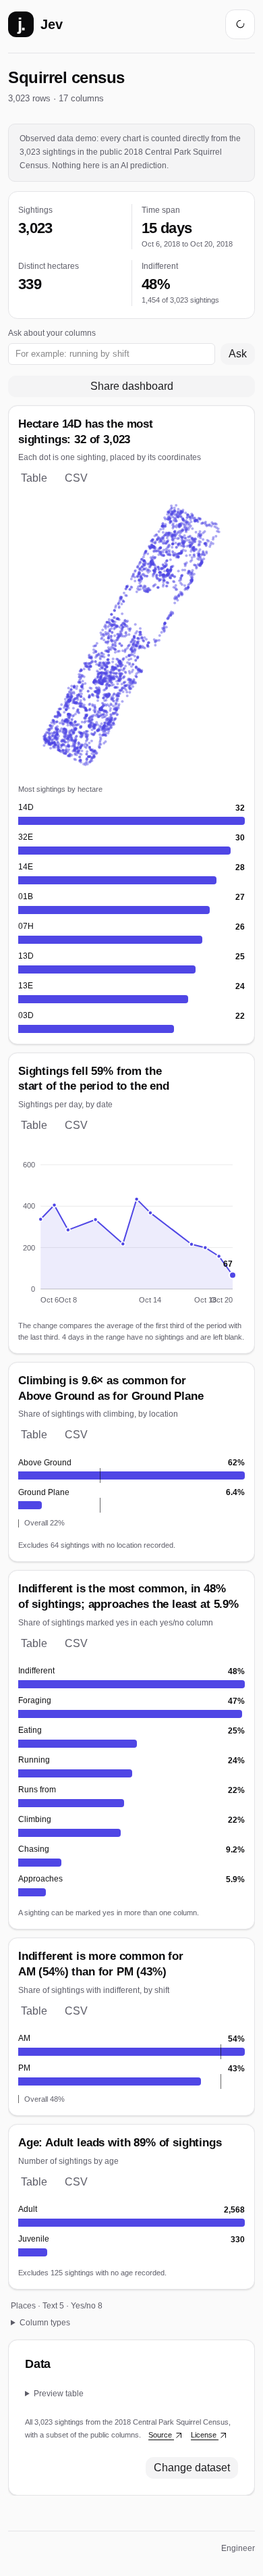
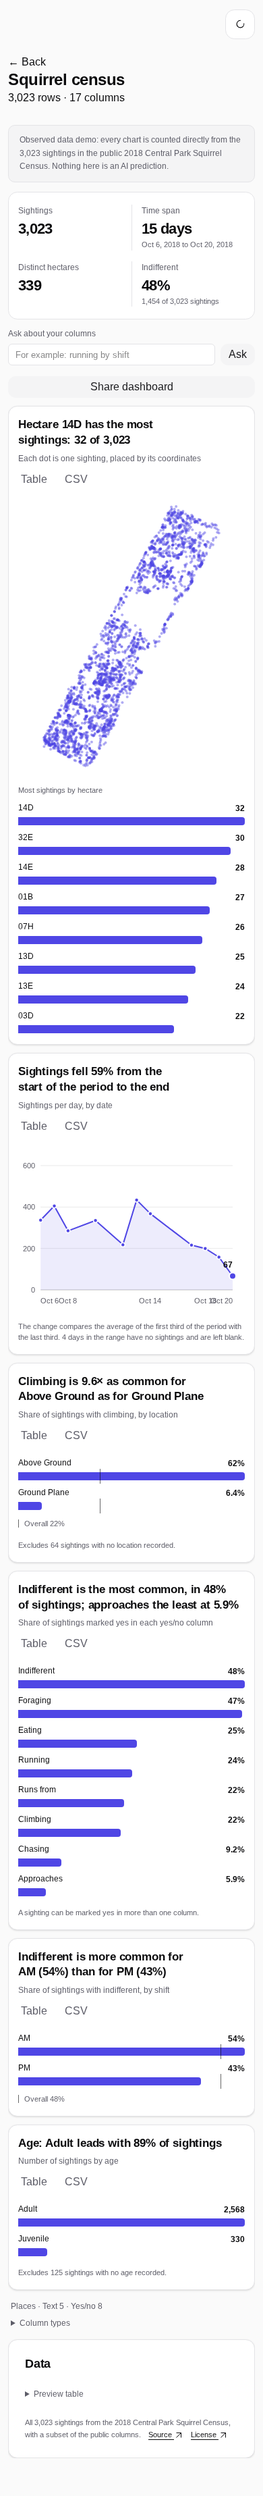
Give every page the landing's chrome: no brand link, no footer
The header now holds only the theme toggle on every page and the product UI
has no footer. Non-landing pages get a plain Back link above the title (a demo
replay returns to its dashboard), which replaces the brand link and the
redundant Change dataset button. Engineer mode has no entry link; it is
entered with ?mode=engineer and shows a Product link only while active.

Changed region(s): [[0.0308, 0.0, 0.9231, 0.9646], [0.5846, 0.9334, 0.8615, 0.9646]]

diff --git a/src/app.test.tsx b/src/app.test.tsx
@@ -141,8 +141,12 @@ const startSampleRun = async (api: AnalysisApiClient) => {
   await enterSample(api)
 }
 
+/** Engineer mode has no link in the product UI; it is entered with the URL parameter. */
 const openEngineer = () => {
-  fireEvent.click(screen.getByRole('link', { name: /^engineer$/i }))
+  act(() => {
+    window.history.pushState({}, '', `${window.location.pathname}?mode=engineer`)
+    window.dispatchEvent(new PopStateEvent('popstate'))
+  })
 }
 
 const startEngineerRun = async (api: AnalysisApiClient) => {
@@ -329,7 +333,9 @@ describe('Jev insight product flow', () => {
     expect(screen.queryByRole('textbox', { name: /jev query json/i })).not.toBeInTheDocument()
     expect(screen.queryByRole('button', { name: /draft task/i })).not.toBeInTheDocument()
     expect(screen.queryByRole('button', { name: /run jev/i })).not.toBeInTheDocument()
-    fireEvent.click(screen.getByRole('link', { name: /^engineer$/i }))
+    expect(screen.queryByRole('link', { name: /^engineer$/i })).not.toBeInTheDocument()
+    expect(screen.queryByRole('contentinfo')).not.toBeInTheDocument()
+    openEngineer()
     expect(document.querySelector('[data-mode="engineer"]')).toBeTruthy()
     expect(window.location.search).toMatch(/mode=engineer/)
     expect(screen.getByText(/edit jev json/i)).toBeInTheDocument()
@@ -738,7 +744,7 @@ describe('Jev insight product flow', () => {
     fireEvent.change(screen.getByLabelText(/upload csv/i), { target: { files: [file] } })
     expect(await screen.findByRole('heading', { name: 'tickets.csv' })).toBeInTheDocument()
     expect(api.createFromCsv).toHaveBeenCalled()
-    fireEvent.click(screen.getByRole('button', { name: /change dataset/i }))
+    fireEvent.click(screen.getByRole('link', { name: /back/i }))
     fireEvent.change(screen.getByLabelText(/public https csv url/i), { target: { value: 'https://example.com/data.csv' } })
     fireEvent.click(screen.getByRole('button', { name: /use public csv url/i }))
     expect(await screen.findByRole('heading', { name: 'remote.csv' })).toBeInTheDocument()
@@ -914,7 +920,20 @@ describe('Jev insight product flow', () => {
     expect(document.querySelector('.page-meta')).toHaveTextContent('71 rows · 16 columns')
     expect(screen.queryByText(/built-in example|in perspective|clearer picture|tells a story/i)).not.toBeInTheDocument()
     expect(document.querySelector('.eyebrow')).toBeNull()
+    // Same chrome as the landing: no brand link and no footer. The way out is the Back link.
+    expect(screen.queryByRole('link', { name: /jev/i })).not.toBeInTheDocument()
+    expect(screen.queryByRole('contentinfo')).not.toBeInTheDocument()
+    expect(screen.getByRole('link', { name: /back/i })).toHaveAttribute('href', '/')
     expect(screen.getByRole('button', { name: /replay timeline/i })).toBeInTheDocument()
+  })
+
+  it('sends a demo replay back to its dashboard', async () => {
+    window.history.pushState({}, '', '/share/demo-football')
+    render(<App api={makeApi()} />)
+    expect(await screen.findByRole('heading', { level: 1, name: 'Saved analysis' })).toBeInTheDocument()
+    expect(screen.queryByRole('contentinfo')).not.toBeInTheDocument()
+    fireEvent.click(screen.getByRole('link', { name: /back/i }))
+    expect(window.location.pathname).toBe('/demo/football')
   })
 
   const salesCsv = 'region,units\nWest,10\nEast,20\nWest,30\nEast,5\nNorth,7\nNorth,9\nWest,12\nEast,3\n'
@@ -1095,13 +1114,13 @@ describe('Jev insight product flow', () => {
     expect(screen.queryByText(/couldn't run/i)).not.toBeInTheDocument()
   })
 
-  it('clears the public CSV URL after Change dataset', async () => {
+  it('clears the public CSV URL after going back from a dataset', async () => {
     const api = makeApi()
     render(<App api={api} />)
     fireEvent.change(screen.getByLabelText(/public https csv url/i), { target: { value: 'https://example.com/data.csv' } })
     fireEvent.click(screen.getByRole('button', { name: /use public csv url/i }))
     expect(await screen.findByRole('heading', { name: 'remote.csv' })).toBeInTheDocument()
-    fireEvent.click(screen.getByRole('button', { name: /change dataset/i }))
+    fireEvent.click(screen.getByRole('link', { name: /back/i }))
     expect(screen.getByLabelText(/public https csv url/i)).toHaveValue('')
   })
 

diff --git a/src/App.tsx b/src/App.tsx
@@ -782,6 +782,17 @@ const App = ({ api = defaultAnalysisApi }: { api?: AnalysisApiClient }) => {
   const stage = isShareView ? 'share' : snapshot && engineerMode ? 'run' : activeDataset ? 'dataset' : 'intake'
   const landing = route.kind === 'land'
   const demoShare = shareAnalysisId !== undefined && isDemoAnalysisId(shareAnalysisId)
+  // A demo replay returns to its dashboard; everything else returns to the start.
+  const backHref = demoShare ? `/demo/${shareAnalysisId!.slice(5)}` : landHref(window.location.search)
+  const goBack = () => {
+    if (!demoShare) {
+      setDataset(undefined)
+      resetRunState()
+      setIntakeError(undefined)
+      resetIntakeForm()
+    }
+    navigate(backHref)
+  }
   const pageTitle = isShareView
     ? 'Saved analysis'
     : activeDataset?.displayName ?? demoDatasets.find((item) => item.id === demoId)?.name ?? 'Dataset'
@@ -789,7 +800,6 @@ const App = ({ api = defaultAnalysisApi }: { api?: AnalysisApiClient }) => {
   return (
     <main className="analysis-shell" data-stage={stage} data-mode={engineerMode ? 'engineer' : 'product'}>
       <header className="site-header">
-        {landing ? null : <a className="brand" href="/" aria-label="Jev home" onClick={(event) => { event.preventDefault(); navigate('/'); setDataset(undefined); resetRunState() }}><span className="brand-mark" aria-hidden="true">j.</span><span>Jev</span></a>}
         <div className="site-header-actions">
           <ThemeToggle />
         </div>
@@ -797,13 +807,13 @@ const App = ({ api = defaultAnalysisApi }: { api?: AnalysisApiClient }) => {
       {landing ? <h1 id="page-title" className="sr-only">{PRODUCT_TITLE}</h1> : (
         <section className="page-head" aria-labelledby="page-title">
           <div className="page-head-text">
+            <a className="page-back" href={backHref} onClick={(event) => { event.preventDefault(); goBack() }}><span aria-hidden="true">←</span> Back</a>
             <h1 id="page-title">{pageTitle}</h1>
             {activeDataset ? <p className="page-meta">{formatCount(activeDataset.acceptedRowCount)} rows <span aria-hidden="true">·</span> {activeDataset.columns.length} columns</p> : null}
           </div>
           {demo && route.kind === 'demo' && route.demoId === 'football' ? (
             <Button variant="secondary" onClick={() => navigate('/share/demo-football')}>Replay timeline <ArrowUpRight /></Button>
           ) : null}
-          {demoShare ? <Button variant="secondary" onClick={() => navigate(`/demo/${shareAnalysisId!.slice(5)}`)}>Back to dashboard</Button> : null}
         </section>
       )}
       <div className="workspace">
@@ -854,13 +864,7 @@ const App = ({ api = defaultAnalysisApi }: { api?: AnalysisApiClient }) => {
                 </section>
               ) : null}
               <SchemaStrip dataset={activeDataset} />
-              <DatasetPreviewCard dataset={activeDataset} onChange={() => {
-                setDataset(undefined)
-                resetRunState()
-                setIntakeError(undefined)
-                resetIntakeForm()
-                navigate(landHref(window.location.search))
-              }} />
+              <DatasetPreviewCard dataset={activeDataset} />
             </div>
           ) : null}
         </StageFold>
@@ -968,7 +972,7 @@ const App = ({ api = defaultAnalysisApi }: { api?: AnalysisApiClient }) => {
           ) : null}
         </StageFold>
       </div>
-      {!isShareView && !landing ? (
+      {engineerMode && !isShareView && !landing ? (
         <footer className="site-footer">
           <a
             className="engineer-link"

diff --git a/src/components/DatasetPreview.tsx b/src/components/DatasetPreview.tsx
@@ -1,8 +1,7 @@
 import { useEffect, useMemo, useRef, useState } from 'react'
 import type { DatasetPreview } from '../shared/dataset'
 import { PREVIEW_VIEWPORT_SIZE, previewWindow } from '../dataset/previewWindow'
-import { Button } from './ui/button'
-import { Card, CardContent, CardFooter, CardHeader } from './ui/card'
+import { Card, CardContent, CardHeader } from './ui/card'
 import { ArrowUpRight } from './ui/arrow'
 
 const previewValue = (value: unknown): string => {
@@ -16,7 +15,7 @@ export const isNarrowPreview = (): boolean => {
   return window.innerWidth <= 390
 }
 
-export const DatasetPreviewCard = ({ dataset, onChange }: { dataset: DatasetPreview; onChange?: () => void }) => {
+export const DatasetPreviewCard = ({ dataset }: { dataset: DatasetPreview }) => {
   const columns = dataset.columns
   const rows = dataset.previewRows
   const scrollRef = useRef<HTMLDivElement>(null)
@@ -117,11 +116,6 @@ export const DatasetPreviewCard = ({ dataset, onChange }: { dataset: DatasetPrev
       </CardContent>
       {dataset.validationWarnings.length > 0 ? <CardContent><ul className="dataset-warnings" aria-label="Dataset validation notes">{dataset.validationWarnings.map((warning, index) => <li key={index}>{warning}</li>)}</ul></CardContent> : null}
       {dataset.attribution ? <CardContent><p className="dataset-attribution">{dataset.attribution.disclosure} <a href={dataset.attribution.sourceUrl} target="_blank" rel="noreferrer">Source <ArrowUpRight size={12} /></a> <a href={dataset.attribution.licenseUrl} target="_blank" rel="noreferrer">License <ArrowUpRight size={12} /></a></p></CardContent> : null}
-      {onChange && (
-        <CardFooter className="preview-actions">
-          <Button variant="secondary" size="sm" type="button" onClick={onChange}>Change dataset</Button>
-        </CardFooter>
-      )}
     </Card>
   )
 }

diff --git a/src/styles.css b/src/styles.css
@@ -133,24 +133,9 @@ button, a { cursor: pointer; }
 .site-header {
   display: flex;
   align-items: center;
-  justify-content: space-between;
+  justify-content: flex-end;
   gap: 16px;
-  padding-bottom: 16px;
-  border-bottom: 1px solid var(--border);
 }
-
-.brand {
-  display: inline-flex;
-  align-items: center;
-  gap: 8px;
-  color: var(--foreground);
-  text-decoration: none;
-  font-size: 20px;
-  font-weight: 600;
-  letter-spacing: -0.01em;
-}
-
-.brand:hover { color: var(--foreground); }
 
 .site-header-actions {
   display: flex;
@@ -584,19 +569,7 @@ h3 {
 }
 
 /* The public studio: a clear first step, with a preview of the result. */
-.brand-mark {
-  display: grid; place-items: center; width: 38px; height: 38px;
-  border-radius: 12px; background: var(--foreground); color: var(--background);
-  font-size: 26px; font-weight: 700; line-height: 1; letter-spacing: -0.08em;
-}
-.brand { gap: 10px; }
-.site-header { padding-bottom: 20px; }
-.page-head { display: flex; align-items: flex-end; justify-content: space-between; flex-wrap: wrap; gap: 12px 20px; padding: 32px 0 20px; }
-.page-head-text { min-width: 0; }
-.page-head h1 { overflow-wrap: anywhere; text-wrap: balance; }
-.page-meta { margin: 6px 0 0; color: var(--muted-foreground); font-size: 13px; font-variant-numeric: tabular-nums; }
 .site-header-actions { margin-left: auto; }
-.analysis-shell[data-stage='intake'] .site-header { border-bottom: 0; padding-bottom: 0; }
 .analysis-shell[data-stage='intake'] .workspace { padding-top: clamp(8px, 5vh, 56px); }
 .analysis-shell[data-stage='intake'] .stage-fold-body { display: grid; grid-template-columns: minmax(0, 1.05fr) minmax(0, 1fr); gap: 40px; align-items: start; }
 .column-head { display: grid; align-content: start; gap: 6px; margin-bottom: 16px; }

diff --git a/README.md b/README.md
@@ -15,7 +15,7 @@ npm run dev
 
 Open the Vite URL and pick one of the examples. Direct links are `/demo/squirrels` and `/demo/football`. Saved demo replay is also available at `/share/demo-football`. Every chart can switch to a data table and export its own CSV; blocked clipboard access reveals a selectable link. The **Ask about your columns** box reorders the dashboard to lead with the charts that answer a question, without any request.
 
-Dropping a CSV always produces a dashboard. Without the live backend the file is charted in the browser at `/local`, never uploaded, and cleared on reload. With the live backend, uploads and public HTTPS URL intake are stored and shareable. A stored dataset shows its observed dashboard first; **Analyze dataset** explicitly starts Jev analysis. Questions the columns already answer (for example "where are squirrels eating?") are refused before any paid call. Visiting datasets, demos, or shared results never starts paid work. Advanced query editing is behind the **Engineer** link in the dataset and demo page footer (`?mode=engineer`).
+Dropping a CSV always produces a dashboard. Without the live backend the file is charted in the browser at `/local`, never uploaded, and cleared on reload. With the live backend, uploads and public HTTPS URL intake are stored and shareable. A stored dataset shows its observed dashboard first; **Analyze dataset** explicitly starts Jev analysis. Questions the columns already answer (for example "where are squirrels eating?") are refused before any paid call. Visiting datasets, demos, or shared results never starts paid work. Advanced query editing is behind the `?mode=engineer` URL parameter; there is no link to it in the product UI.
 
 Stored uploads and results are public. Use non-sensitive data only. Intake accepts at most **5 MB, 5,000 rows, and 100 columns**. CSV URL fetches reject credentials and private/reserved destinations, validate each redirect, pin the connection to validated DNS answers, and enforce streamed size and timeout limits.
 

diff --git a/CURSOR.md b/CURSOR.md
@@ -3,6 +3,7 @@
 The active product is CSV analysis, with credential-free examples for sharing and live BYOD when configured. Historical ESPN gamecast is outside the shipped product. Read `README.md`, `docs/AUDIT.md`, and `docs/analysis-api.md` first. `PLAN.md` preserves the original pivot history; the current rules below supersede older landing/automatic-run instructions.
 
 - Landing is only CSV intake and two clearly labeled example dashboards: no brand link, hero, or footer (the page title is a screen-reader-only `h1`). Preserve the demo on-ramp when backend services are unavailable.
+- Every page shares the landing's chrome: the header holds only the theme toggle (no brand link) and there is no footer in the product UI. Pages other than the landing have a plain `← Back` link above the title (a demo replay goes back to its dashboard). Engineer mode (`?mode=engineer`) has no entry link; it shows a `Product` link in a footer only while active.
 - Every other page also has no taglines, eyebrows, or hero. A dashboard page's `h1` is the dataset name with a rows/columns line beneath it; shared analyses use `Saved analysis`. Say each thing once: do not repeat a title, count, or percentage in the header, the cards, and the table. The landing's polish is functional (drop-zone states, chart-shaped example thumbnails, motion that respects reduced-motion), never decorative copy.
 - Browser verification on a headless host is documented in `AGENTS.md` (`npm run browser:setup`, `npm run shoot`).
 - The squirrel rows are a lazy chunk: browser code imports fixture constants from `src/fixtures/squirrelCensusMeta.ts` and loads rows through the async `loadDemoDashboard` / `loadDemoSnapshot` / `loadFixtureDatasetPreview`. A static import of `squirrelCensus.ts` from browser code puts 330 KB back in the main bundle.
